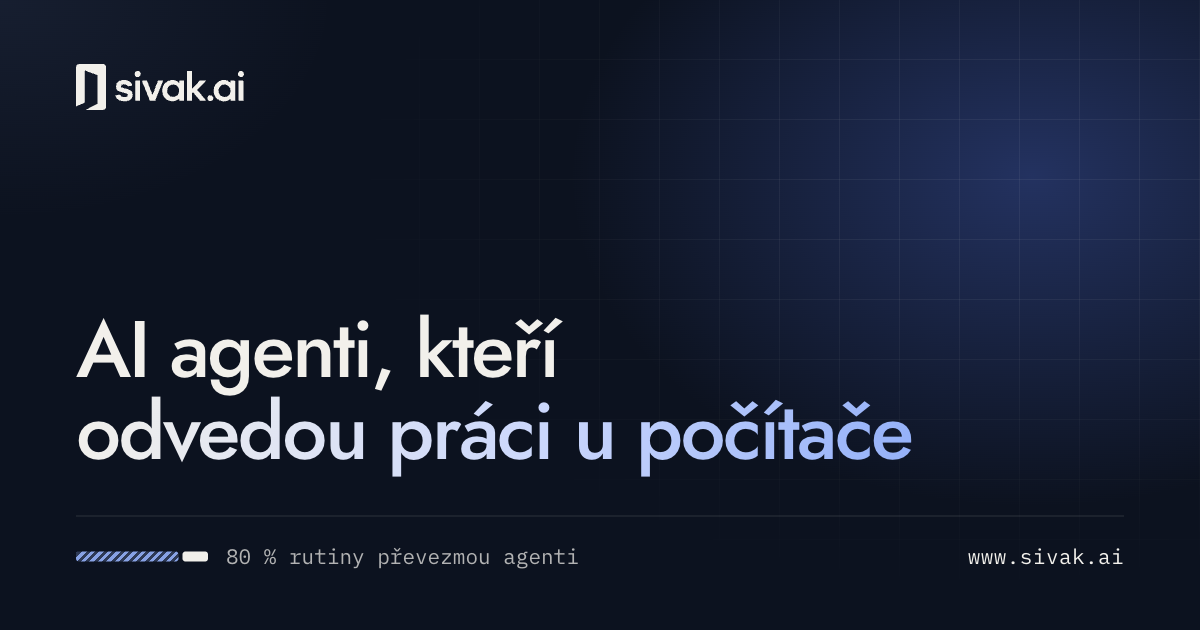
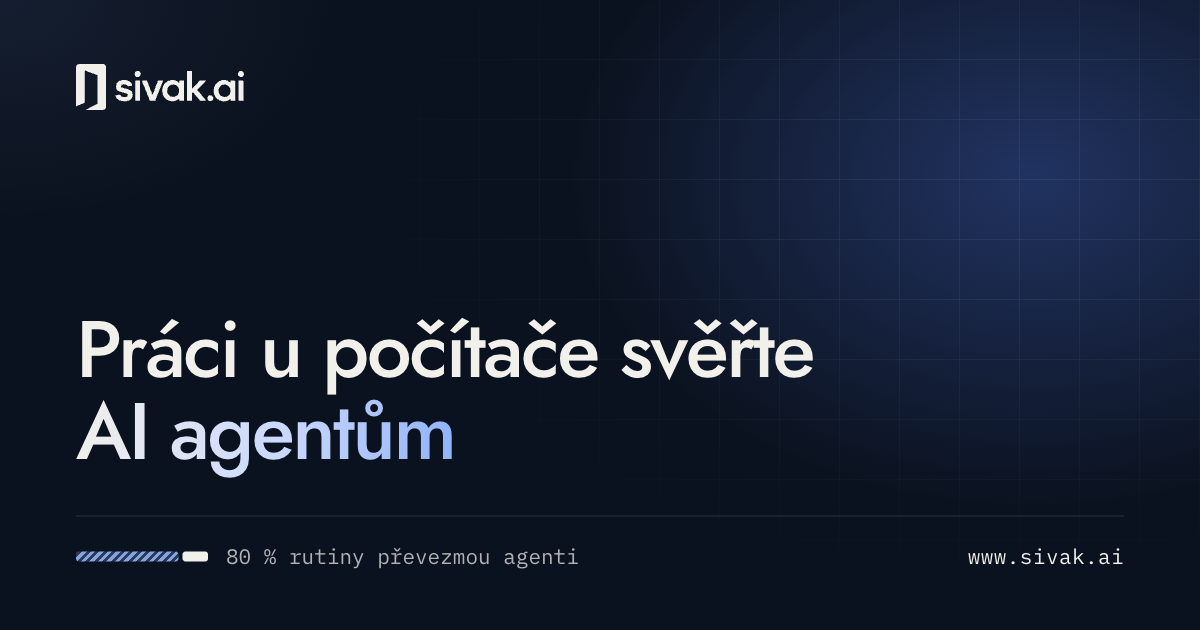
Add email, production and marketing agents and reword the Czech headline
The agent demo opens with email triage for the CEO, followed by production
planning and campaign reports for marketing agencies, ahead of the original
four agents. With seven agents the tab strip scrolls: it fades the edges that
hide tabs and keeps the working agent's tab in view, scrolling only the strip.
The result box always leaves room for two lines, and on phones the status chip
sits above the name, so the demo keeps the same height for every agent.

The use cases now start with management (including email triage), production
and marketing, email sorting joins the routine in the 80:20 section, and the
FAQ names the industries we work for.

The Czech headline "AI agenti, kteří odvedou práci u počítače" read like a
translation; it is now "Práci u počítače svěřte AI agentům", and the Czech
share image shows the new wording.

Changed region(s): [[0.0617, 0.4825, 0.7708, 0.754]]

diff --git a/src/app/globals.css b/src/app/globals.css
@@ -383,24 +383,38 @@ code { font: inherit; }
 .console-live { display: inline-flex; align-items: center; gap: 8px; color: var(--on-dark-2); white-space: nowrap; }
 
 .console-tabs {
+  position: relative;
   display: flex;
-  gap: 4px;
+  gap: 2px;
   padding: 10px 12px;
   border-bottom: 1px solid var(--line-dark);
   overflow-x: auto;
   scrollbar-width: none;
 }
 .console-tabs::-webkit-scrollbar { display: none; }
+/* AgentConsole marks which edges hide more tabs */
+.console-tabs[data-fade="right"] {
+  -webkit-mask-image: linear-gradient(90deg, #000 calc(100% - 56px), transparent);
+  mask-image: linear-gradient(90deg, #000 calc(100% - 56px), transparent);
+}
+.console-tabs[data-fade="left"] {
+  -webkit-mask-image: linear-gradient(90deg, transparent, #000 56px);
+  mask-image: linear-gradient(90deg, transparent, #000 56px);
+}
+.console-tabs[data-fade="both"] {
+  -webkit-mask-image: linear-gradient(90deg, transparent, #000 56px, #000 calc(100% - 56px), transparent);
+  mask-image: linear-gradient(90deg, transparent, #000 56px, #000 calc(100% - 56px), transparent);
+}
 .console-tab {
   display: inline-flex;
   flex: none;
   align-items: center;
-  gap: 8px;
-  padding: 7px 12px;
+  gap: 7px;
+  padding: 6px 10px;
   border: 1px solid transparent;
   border-radius: 8px;
   background: none;
-  font-size: 13.5px;
+  font-size: 13px;
   font-weight: 500;
   color: var(--on-dark-3);
   cursor: pointer;
@@ -503,6 +517,8 @@ code { font: inherit; }
 .task-outcome {
   display: grid;
   align-items: center;
+  /* room for two lines of result, so the console keeps its height from agent to agent */
+  min-height: calc(2.9em + 28px);
   margin-top: 16px;
   padding: 13px 14px 13px 16px;
   border: 1px dashed rgba(242, 240, 235, .14);
@@ -1278,12 +1294,9 @@ code { font: inherit; }
   .hero-actions .btn { flex: 1 1 auto; }
 
   .console-dots { display: none; }
-  .console-tabs {
-    -webkit-mask-image: linear-gradient(90deg, #000 82%, transparent);
-    mask-image: linear-gradient(90deg, #000 82%, transparent);
-  }
   .console-main { padding: 16px; }
-  .task-head { flex-wrap: wrap; gap: 10px; }
+  /* the status chip sits above the name, so a longer chip never wraps the heading */
+  .task-head { flex-direction: column-reverse; align-items: flex-start; gap: 10px; }
   .task-step {
     grid-template-columns: 18px minmax(0, 1fr);
     grid-template-areas:
@@ -1297,6 +1310,7 @@ code { font: inherit; }
   .step-text { grid-area: text; }
   .step-result { grid-area: result; min-height: 1.45em; white-space: normal; }
   .step-time { display: none; }
+  .task-outcome { min-height: 118px; }
   .outcome-result { flex-direction: column; align-items: flex-start; gap: 12px; }
   .console-foot { gap: 4px 14px; }
 

diff --git a/src/components/AgentConsole.tsx b/src/components/AgentConsole.tsx
@@ -22,6 +22,7 @@ function subscribeReduced(onChange: () => void) {
 // then hand the result to a person or report it as done.
 export default function AgentConsole({ t }: { t: ConsoleText }) {
   const rootRef = useRef<HTMLDivElement>(null);
+  const tabsRef = useRef<HTMLDivElement>(null);
   const [active, setActive] = useState(0);
   const [done, setDone] = useState(0);
   const [visible, setVisible] = useState(false);
@@ -63,6 +64,35 @@ export default function AgentConsole({ t }: { t: ConsoleText }) {
     return () => window.clearTimeout(timer);
   }, [active, done, reduced, visible, total, t.agents.length]);
 
+  // With more agents than fit, the tab strip scrolls: fade the edges that hide tabs…
+  useEffect(() => {
+    const strip = tabsRef.current;
+    if (!strip) return;
+    const updateFade = () => {
+      const left = strip.scrollLeft > 2;
+      const right = strip.scrollLeft + strip.clientWidth < strip.scrollWidth - 2;
+      strip.dataset.fade = left && right ? "both" : left ? "left" : right ? "right" : "none";
+    };
+    updateFade();
+    strip.addEventListener("scroll", updateFade, { passive: true });
+    window.addEventListener("resize", updateFade);
+    return () => {
+      strip.removeEventListener("scroll", updateFade);
+      window.removeEventListener("resize", updateFade);
+    };
+  }, []);
+
+  // …and bring the working agent's tab to the middle, scrolling only the strip, never the page
+  useEffect(() => {
+    const strip = tabsRef.current;
+    const tab = strip?.children[active] as HTMLElement | undefined;
+    if (!strip || !tab) return;
+    strip.scrollTo({
+      left: tab.offsetLeft - (strip.clientWidth - tab.offsetWidth) / 2,
+      behavior: reduced ? "auto" : "smooth",
+    });
+  }, [active, reduced]);
+
   function select(i: number) {
     setActive(i);
     setDone(0);
@@ -84,7 +114,7 @@ export default function AgentConsole({ t }: { t: ConsoleText }) {
           </span>
         </div>
 
-        <div className="console-tabs" role="group" aria-label={t.agentsLabel}>
+        <div className="console-tabs" ref={tabsRef} role="group" aria-label={t.agentsLabel}>
           {t.agents.map((a, i) => (
             <button
               key={a.name}

diff --git a/design/og/og-cs.html b/design/og/og-cs.html
@@ -33,7 +33,7 @@
   <div class="bg"></div><div class="grid"></div>
   <div class="wrap">
     <img class="logo" src="../../public/brand/logo-light.svg" alt="">
-    <h1>AI agenti, kteří<br><span>odvedou práci u počítače</span></h1>
+    <h1>Práci u počítače svěřte<br><span>AI agentům</span></h1>
     <div class="foot">
       <div class="ratio"><span class="bar"><i></i><i></i></span>80 % rutiny převezmou agenti</div>
       <div class="url">www.sivak.ai</div>
